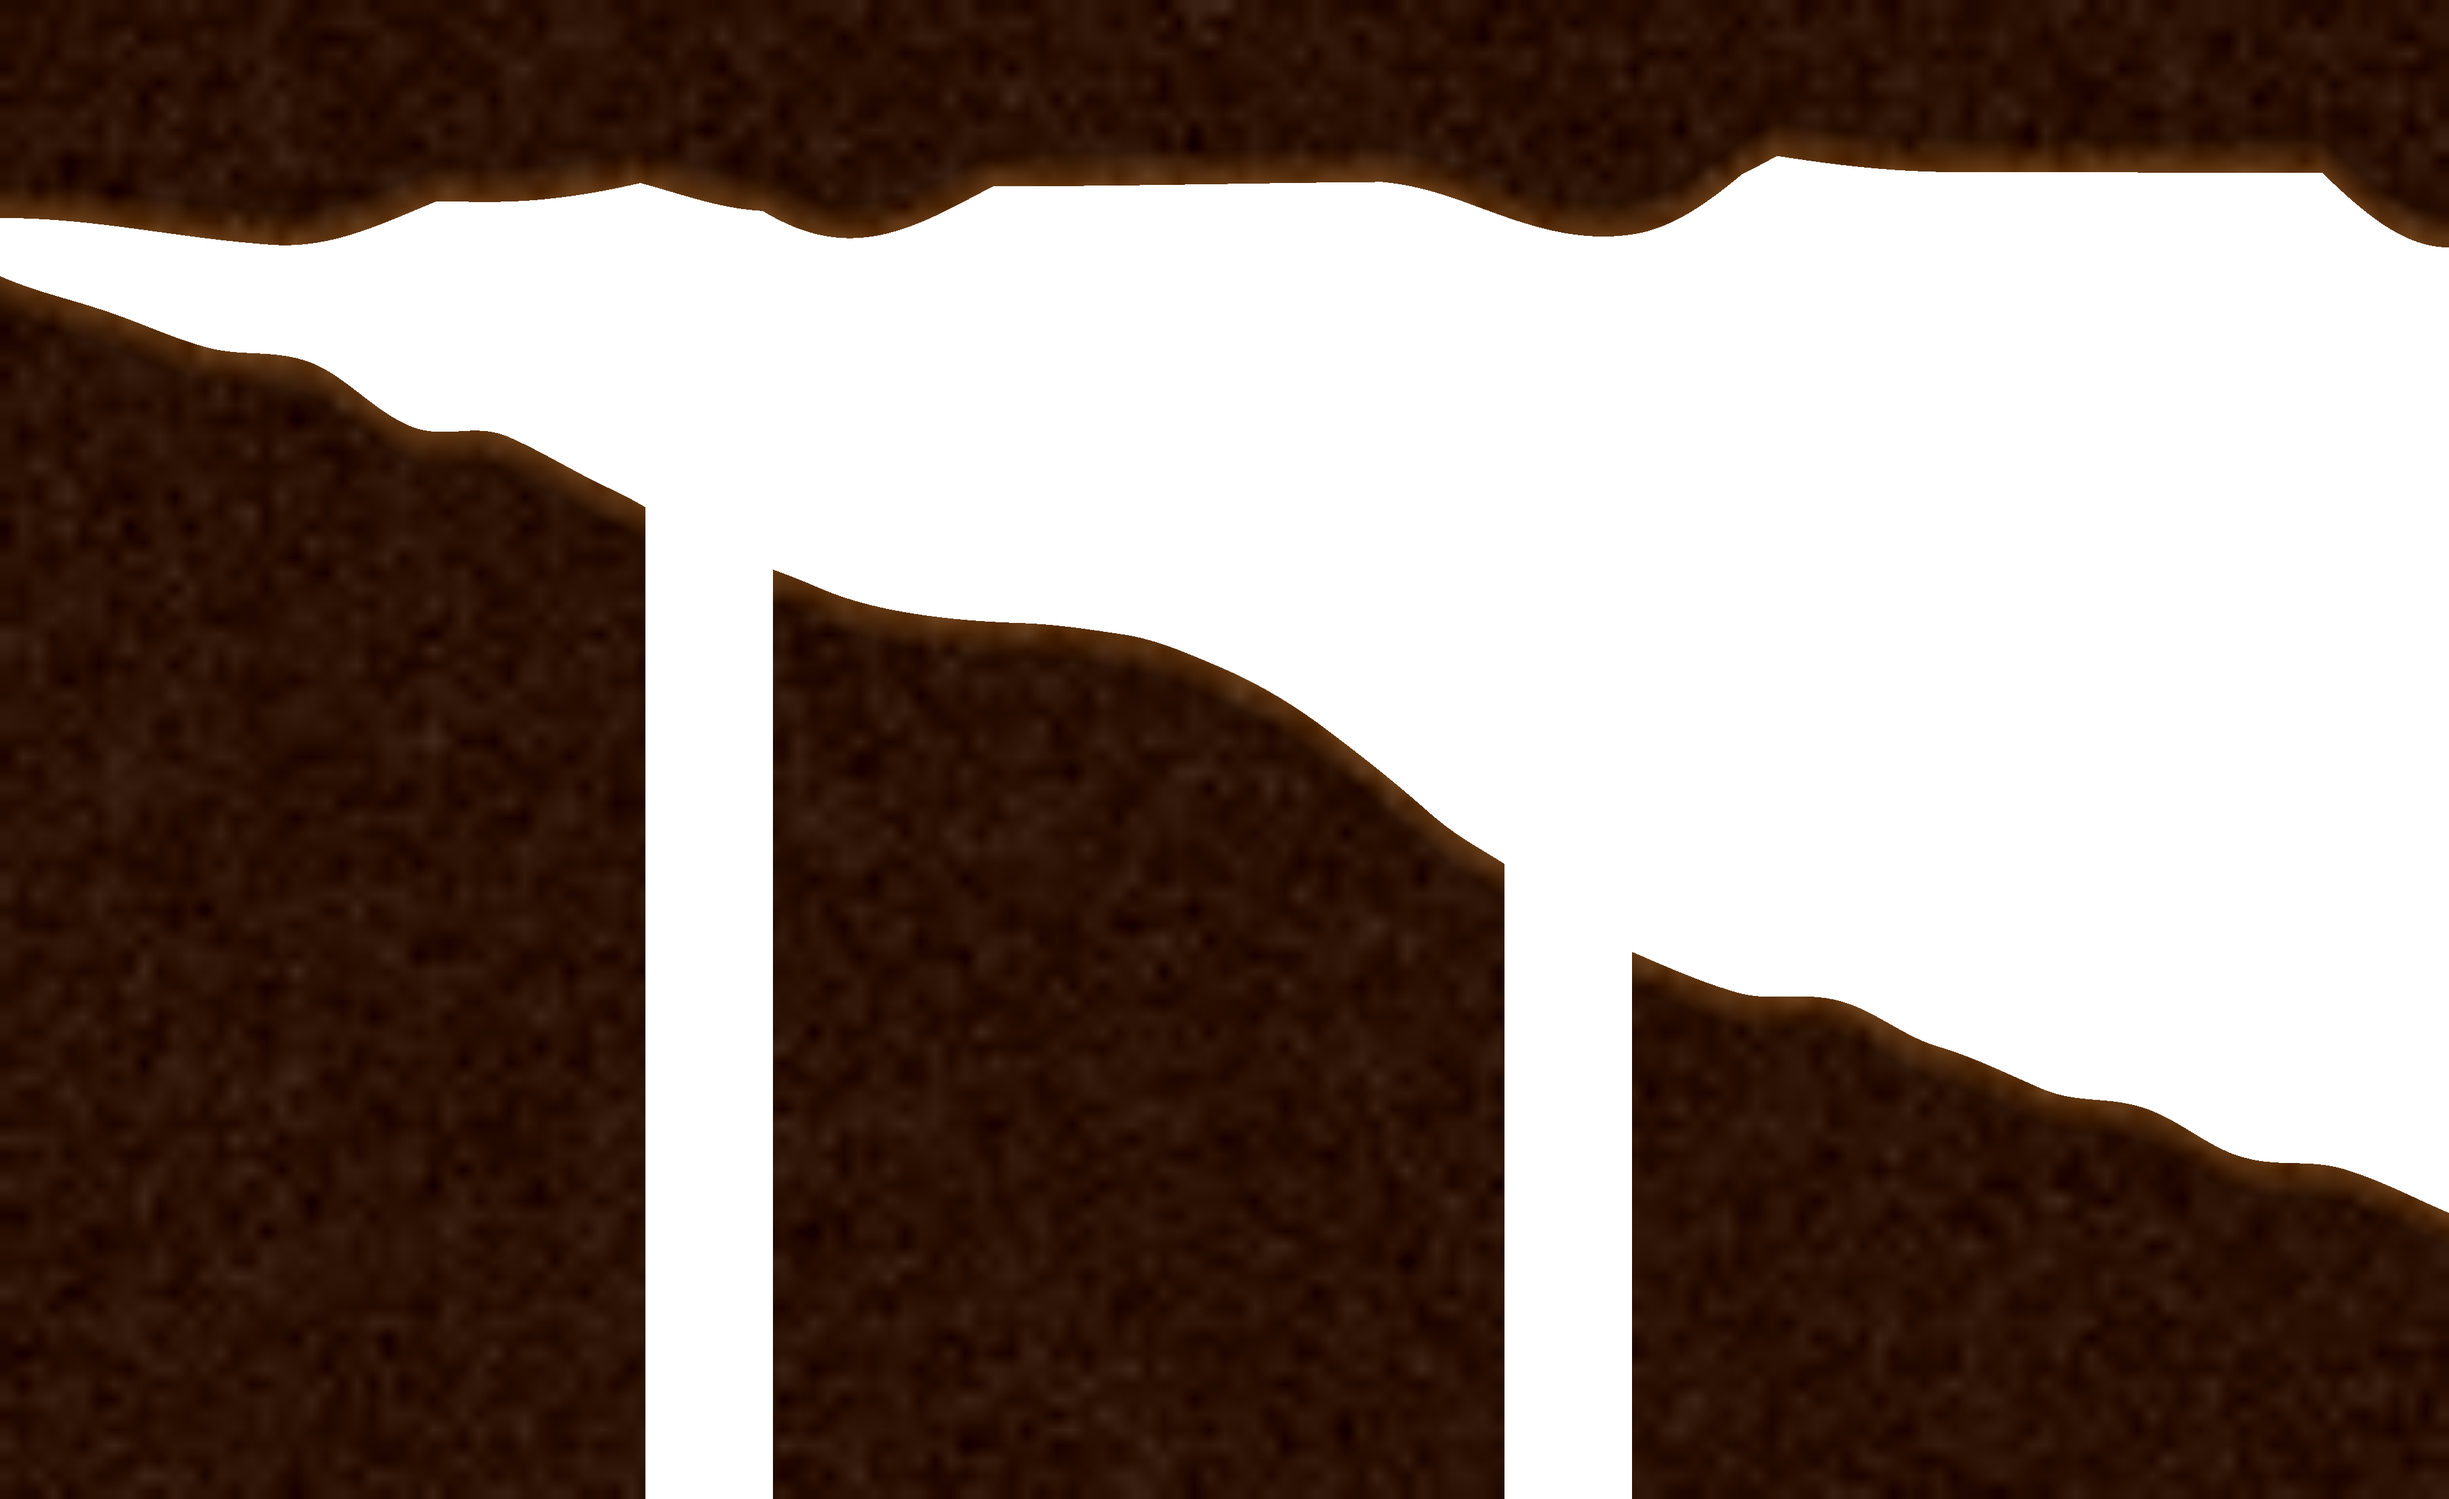
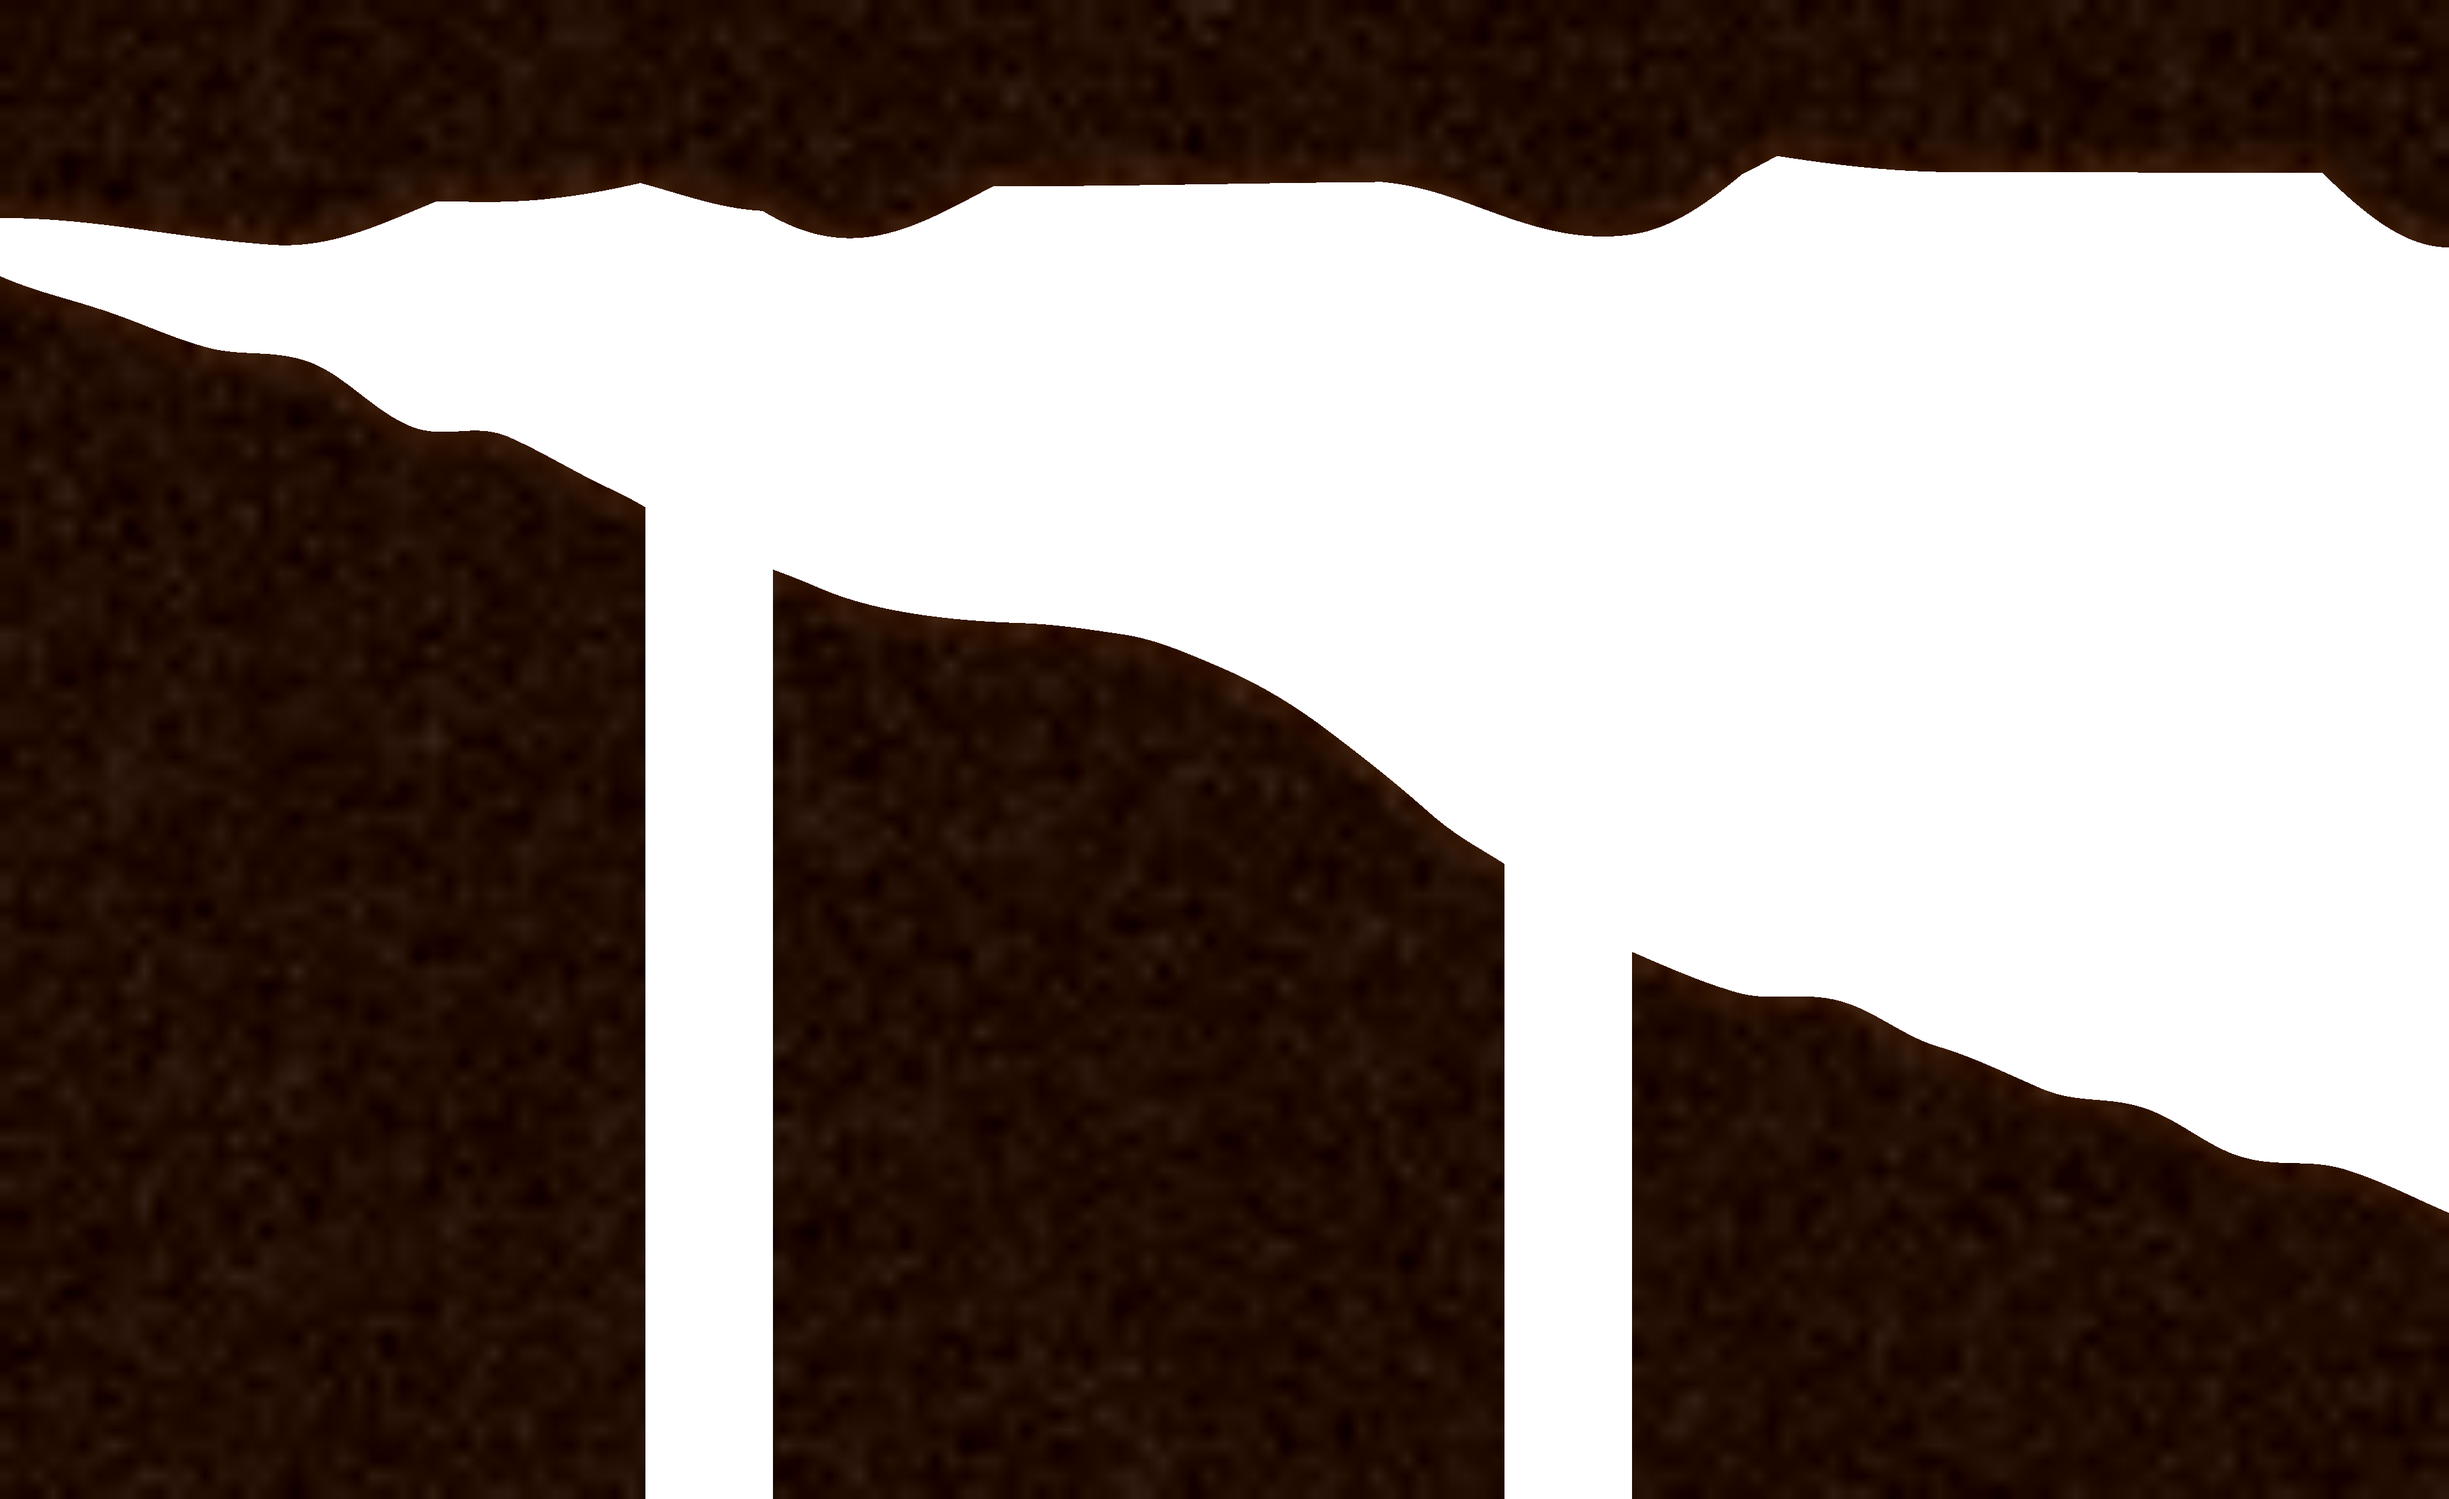
Gi bane 5/6 riktig morke-progresjon, malt fra bane 3/4 ikke bane 1
Mathias forklarte designprinsippet: hver bane skal bli morkere enn
forrige, som a dra dypere ned i en hule. Bane 1 er opplaringsbanen
(far eget tutorial-innhold senere) og ikke representativ, bane 3/4
er riktig sammenligningsgrunnlag.

Malte presist fra bane 3/4 sin faktiske kunst: dyp bakkefarge
~(38,14,1), kantfarge ~(63,27,4). Fargen jeg faktisk brukte for
bane 5/6 fra for var i praksis narmere bane 1 sin lysere tone,
saerlig kantfargen. Bane 5 er na ett morke-steg (faktor 0.85 pa
rod/gronn) morkere enn bane 3/4-baseline, bane 6 to steg (0.85^2).
Blakanalen holdes pa bunniva, den store overgangen skjedde allerede
mellom bane 1 og 2 i den ekte kunsten.

Regenererte kun level5/1-4.png og level6/1-4.png, farge pavirker
ikke kollisjonsformen.

Claude-Session: https://claude.ai/code/session_01KM3gBnL2KBiiwgB3FdLDrQ

diff --git a/TIL-ORJAN.md b/TIL-ORJAN.md
@@ -1677,3 +1677,39 @@ Luac-sjekket, kjørte fullt syntakssøk over repoet. Ikke testet i
 faktisk nettleser ennå. Sendte oppdaterte referansebilder (samme
 flis-i-relativ-posisjon-metode som før) til Mathias for
 tilbakemelding før dette regnes som ferdig.
+
+## 2026-09-15, bane 5/6: skal bli mørkere jo lenger ut i spillet, som en hule
+
+Mathias forklarte et designprinsipp jeg ikke kjente til: hver bane
+skal bli mørkere enn den forrige etter hvert som man kommer lenger,
+som om man drar dypere ned i en hule (bane 1 tydelig lysere enn bane
+2, og så videre). Påpekte samtidig at fargen jeg brukte for bane 5/6
+var hentet fra feil sted, den var i praksis nærmere bane 1 sin lysere
+tone. Bane 1 er opplæringsbanen og skal få eget tutorial-innhold
+senere, ikke representativ for selve mørke-progresjonen. Bane 3/4 er
+riktig sammenligningsgrunnlag.
+
+Målte etterpå presist fra bane 3 og 4 sin faktiske kunst (ikke bare
+antatt): dyp bakkefarge (median langt inne i et bakkestykke) ligger på
+ca (38, 14, 1), og selve kantlinja (median innenfor ~4 piksler fra
+alfakanten) på ca (63, 27, 4). Begge banene ga nesten identiske tall,
+god baseline. Til sammenligning var fargen jeg egentlig brukte for
+bane 5/6, (41,16,2)/(98,55,18), særlig kantfargen alt for lys og
+mettet mot ekte bane 3/4.
+
+Satt opp en enkel progresjons-regel i terreng-scriptet: bane 5 er ett
+"mørke-steg" (faktor 0,85) mørkere enn bane 3/4-baseline på rød og
+grønn kanal, bane 6 to steg (faktor 0,85²≈0,72). Blåkanalen holdes
+igjen på det samme bunnivået (1) som bane 3/4 allerede bruker i stedet
+for å skaleres videre ned, siden den store fargeendringen i spillets
+etablerte palett (nesten ikke blått igjen fra bane 1 til bane 2) alt
+har skjedd, bane 5/6 skal bare fortsette å dempe rødt/grønt gradvis
+derfra.
+
+Regenererte kun `level5/1-4.png` og `level6/1-4.png` (selve fargen
+påvirker ikke kollisjonsformen, `lib/shapedefs5/6.lua` uendret).
+Filstørrelsene ble marginalt mindre (mørkere farger komprimerer
+vanligvis litt bedre).
+
+Luac-sjekket, kjørte fullt syntakssøk over repoet. Ikke testet i
+faktisk nettleser ennå.

diff --git a/KODEBASE.md b/KODEBASE.md
@@ -263,6 +263,16 @@ filene gjør.
   bane 5 sin bakgrunnsfiks eller kant-avrunding ennå (de ble bedt om
   spesifikt for bane 5).
 
+**Fargeprogresjon (mørkere jo lenger ut i spillet):** designprinsipp
+fra Mathias, hver bane skal være mørkere enn forrige, som å dra dypere
+ned i en hule. Målt presist fra bane 3/4 sin faktiske kunst (ikke bane
+1, som er opplæringsbanen og en outlier): dyp bakkefarge ~(38,14,1),
+kantfarge ~(63,27,4). Bane 5 sin farge er dette ett "mørke-steg"
+(faktor 0,85 på rød/grønn kanal) mørkere, bane 6 to steg (0,85²).
+Blåkanalen holdes på bunnivå (1) i stedet for å skaleres videre ned,
+den store overgangen skjedde allerede mellom bane 1 og 2 i den ekte
+kunsten. Se `TIL-ORJAN.md` for målingene.
+
 ### Banevalg-systemet
 - `ogt_levelmanager.lua` / `ogt_lmdata.lua` — **i bruk**, tredjeparts-aktig
   "level select grid"-bibliotek (paginert rutenett, lås/opplåsing,
